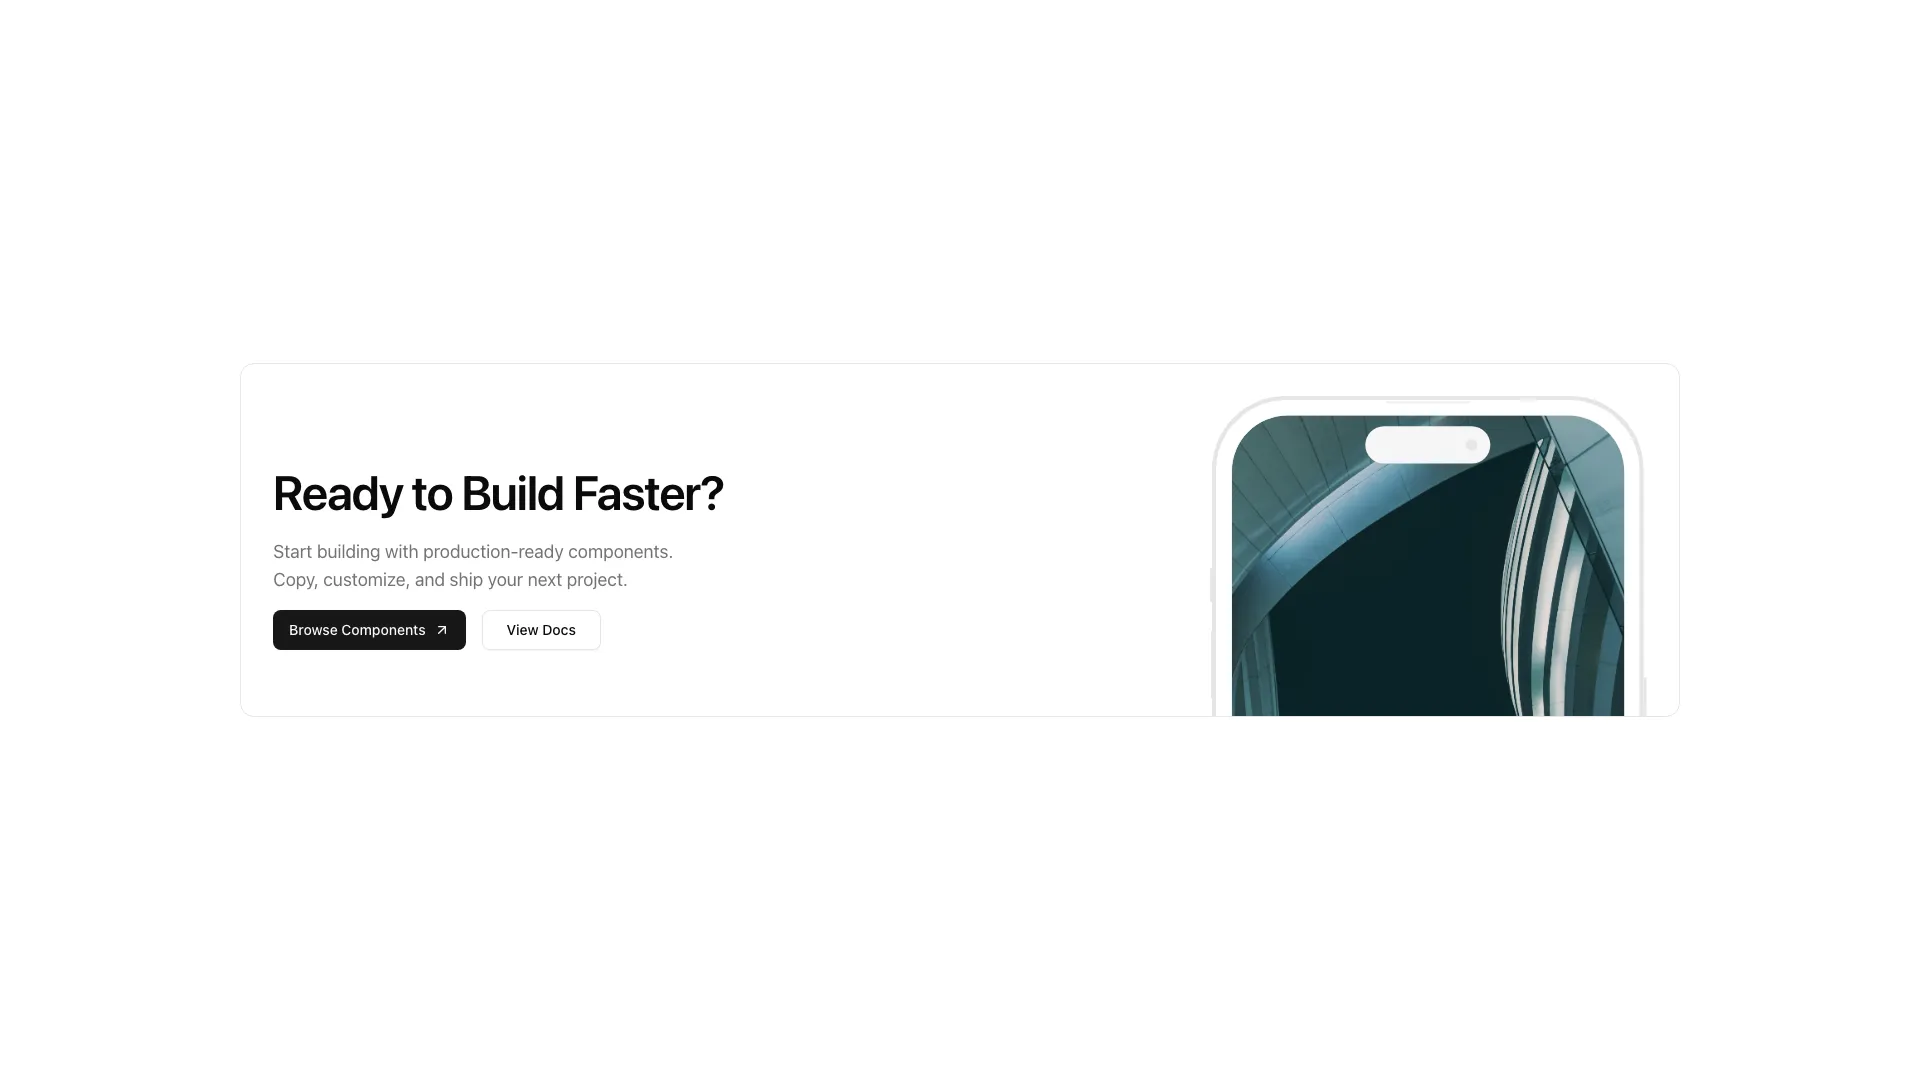
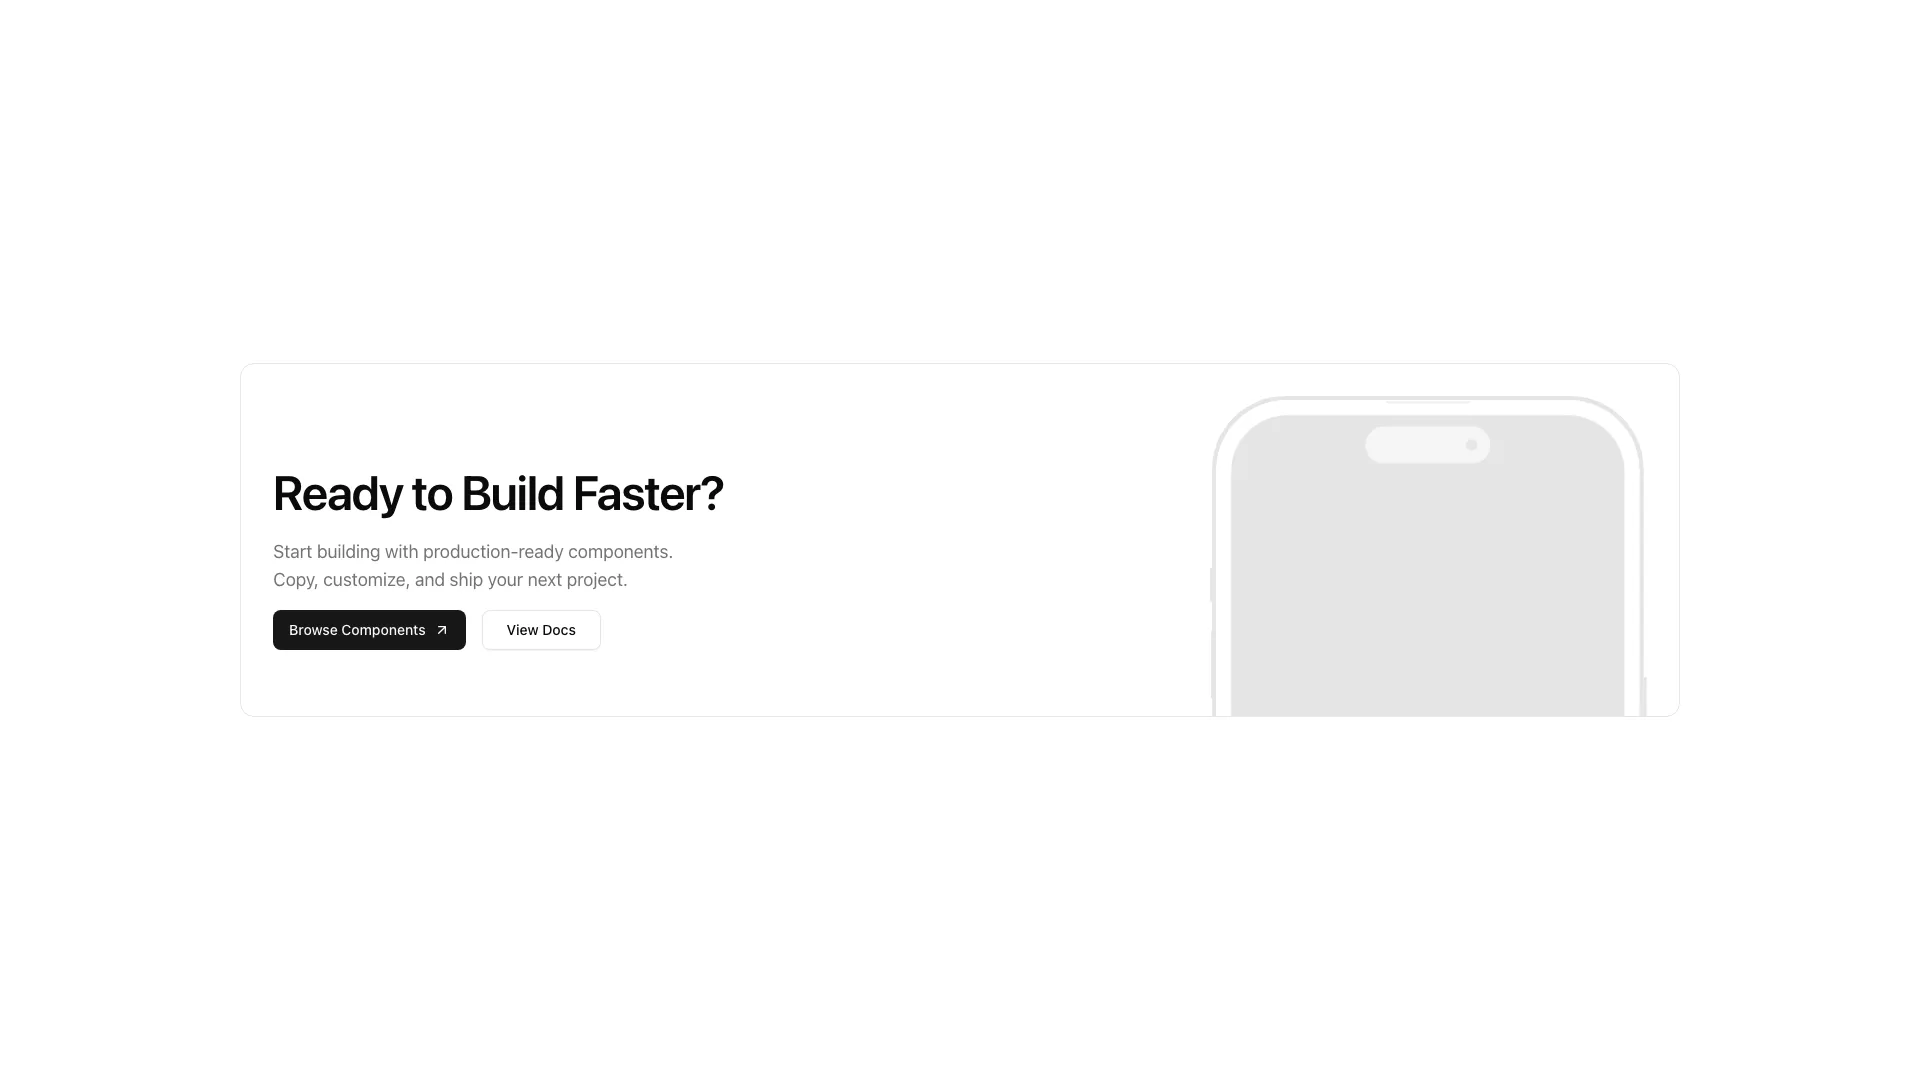
fix: display img in componants

Changed region(s): [[0.625, 0.3667, 0.8438, 0.6722]]

diff --git a/src/registry/blocks/feature-05/feature.tsx b/src/registry/blocks/feature-05/feature.tsx
@@ -38,25 +38,21 @@ const Feature05 = ({
       title: "Copy & Paste Ready",
       description: "Every component is ready to use. Just copy the code and paste it into your project.",
       icon: Copy,
-      image: "https://images.pexels.com/photos/17791448/pexels-photo-17791448.jpeg",
     },
     {
       title: "Fully Customizable",
       description: "Built with Tailwind CSS, every component can be easily modified to match your brand.",
       icon: SquareDashedMousePointer,
-      image: "https://images.pexels.com/photos/17791448/pexels-photo-17791448.jpeg",
     },
     {
       title: "TypeScript First",
       description: "All components are fully typed with TypeScript for better developer experience.",
       icon: TypeOutline,
-      image: "https://images.pexels.com/photos/17791448/pexels-photo-17791448.jpeg",
     },
     {
       title: "Accessible by Default",
       description: "Built on Radix UI primitives, all components follow WAI-ARIA guidelines.",
       icon: Info,
-      image: "https://images.pexels.com/photos/17791448/pexels-photo-17791448.jpeg",
     },
   ],
   className,
@@ -102,27 +98,27 @@ const Feature05 = ({
                     <p className={feature.icon ? "pl-8" : ""}>
                       {feature.description}
                     </p>
+                    <div className="mt-4 aspect-video overflow-hidden rounded-lg bg-accent lg:hidden">
                     {feature.image && (
-                      <div className="mt-4 aspect-video overflow-hidden rounded-lg bg-muted lg:hidden">
                         <img
                           src={feature.image}
                           alt={feature.title}
                           className="size-full object-cover"
                         />
-                      </div>
                     )}
+                    </div>
                   </AccordionContent>
                 </AccordionItem>
               ))}
             </Accordion>
           </div>
           <div className="relative hidden lg:block">
-          <div className="sticky top-24 aspect-square overflow-hidden rounded-lg h-full border">
-              <img
+          <div className="sticky top-24 aspect-square overflow-hidden rounded-lg h-full border bg-accent">
+            {activeImage && <img
                 src={activeImage}
                 alt="Feature illustration"
                 className="size-full object-cover "
-              />
+              />}
             </div>
           </div>
         </div>

diff --git a/src/registry/blocks/hero-03/hero.tsx b/src/registry/blocks/hero-03/hero.tsx
@@ -15,7 +15,9 @@ interface Hero03Props {
   };
   ratingText?: string;
   stats?: { value: string; label: string }[];
+  image?: string;
   className?: string;
+
 }
 
 const Hero03 = ({
@@ -31,8 +33,9 @@ const Hero03 = ({
     { value: "50+", label: "Blocks" },
     { value: "100%", label: "Free" },
     { value: "Open", label: "Source" },
-  ],
-  className,
+    ],
+  image,
+    className,
 }: Hero03Props) => {
   return (
     <section
@@ -89,7 +92,7 @@ const Hero03 = ({
             <Separator orientation="vertical" className="h-4" />
             <span className="text-sm text-muted-foreground">{ratingText}</span>
           </div>
-          <Card className="mt-12 w-full shadow-none">
+          <Card className="mt-12 w-full shadow-none max-w-2xl">
             <div className="flex divide-x">
               {stats.map((stat) => (
                 <div
@@ -107,7 +110,10 @@ const Hero03 = ({
             </div>
           </Card>
         </div>
-        <div className="w-full aspect-video lg:aspect-auto lg:h-screen bg-accent" />
+        <div className="w-full aspect-video lg:aspect-auto lg:h-screen bg-accent">
+             {image && <img src={image} alt={heading} width={1000} height={1000} className="w-full h-full object-cover" />}
+        </div>
+      
       </div>
     </section>
   );

diff --git a/src/registry/blocks/feature-02/feature.tsx b/src/registry/blocks/feature-02/feature.tsx
@@ -10,6 +10,7 @@ interface Feature {
 }
 
 interface Feature02Props {
+  image?: string;
   heading?: string;
   features?: Feature[];
   className?: string;
@@ -17,6 +18,7 @@ interface Feature02Props {
 
 const Feature02 = ({
   heading = "Everything You Need to Build Faster",
+  image,
   features = [
     {
       icon: <Blocks className="size-5" />,
@@ -40,10 +42,11 @@ const Feature02 = ({
   className,
 }: Feature02Props) => (
   <section className={cn("container mx-auto px-6 py-12 md:py-24", className)}>
-      <div className="relative flex h-64 md:h-80 items-center justify-center rounded-xl bg-accent">
-        <h2 className="relative text-center text-4xl md:text-5xl font-semibold leading-tight tracking-tight px-4">
+      <div className="relative flex h-64 md:h-80 items-center justify-center rounded-xl bg-accent overflow-hidden">
+        <h2 className="relative text-center text-4xl md:text-5xl font-semibold leading-tight tracking-tight px-4 z-2">
           {heading}
         </h2>
+        {image && <img src={image} alt={heading} className="absolute inset-0 w-full h-full object-cover  z-1" />}
       </div>
       <div className="mt-6 grid gap-6 md:grid-cols-3">
         {features.map((feature, i) => (

diff --git a/src/registry/blocks/hero-02/hero.tsx b/src/registry/blocks/hero-02/hero.tsx
@@ -58,6 +58,7 @@ interface Hero02Props {
     primary?: { text: string; url: string; icon?: React.ReactNode };
     secondary?: { text: string; url: string; icon?: React.ReactNode };
   };
+  image?: string;
   className?: string;
 }
 
@@ -69,6 +70,7 @@ const Hero02 = ({
     primary: { text: "Browse Components", url: "#", icon: <ArrowUpRight className="size-4" /> },
     secondary: { text: "View Docs", url: "#" },
   },
+  image,
   className,
 }: Hero02Props) => {
   return (
@@ -115,7 +117,9 @@ const Hero02 = ({
             </Button>
           )}
         </div>
-        <div className="mt-20  mx-auto w-full max-w-5xl lg:max-w-7xl aspect-video bg-accent rounded-md" />
+        <div className="mt-20  mx-auto w-full max-w-5xl lg:max-w-7xl aspect-video bg-accent rounded-md">
+          {image && <img src={image} alt={heading} width={1000} height={1000} className="w-full h-full object-cover rounded-md" />}
+        </div>
       </div>
     </section>
   );

diff --git a/src/registry/blocks/feature-01/feature.tsx b/src/registry/blocks/feature-01/feature.tsx
@@ -4,6 +4,7 @@ import { Card } from "@/components/ui/card";
 import { Button } from "@/components/ui/button";
 
 interface FeatureItem {
+  image?: string;
   title: string;
   description: string;
   link?: { text: string; url: string };
@@ -50,7 +51,9 @@ const Feature01 = ({
         <div className="mt-8 grid gap-8 md:grid-cols-2 lg:grid-cols-3">
           {features.map((feature, index) => (
             <Card key={index} className="flex flex-col p-4 shadow-none gap-4">
-              <div className="aspect-video rounded-lg bg-accent" />
+              <div className="aspect-video rounded-lg bg-accent" >
+                {feature.image && <img src={feature.image} alt={feature.title} className="aspect-video object-cover rounded-lg" />}
+                </div>
               <h3 className="text-xl font-medium">{feature.title}</h3>
               <p className="flex-1 text-sm text-muted-foreground">
                 {feature.description}

diff --git a/src/registry/blocks/hero-01/hero.tsx b/src/registry/blocks/hero-01/hero.tsx
@@ -11,6 +11,7 @@ interface Hero01Props {
     primary?: { text: string; url: string; icon?: React.ReactNode };
     secondary?: { text: string; url: string; icon?: React.ReactNode };
   };
+  image?: string;
   className?: string;
 }
 
@@ -22,6 +23,7 @@ const Hero01 = ({
     primary: { text: "Browse Components", url: "#" ,icon: <ArrowUpRight className="size-4" /> },
     secondary: { text: "View Docs", url: "#" },
   },
+  image,
   className,
 }: Hero01Props) => {
   return (
@@ -70,7 +72,9 @@ const Hero01 = ({
             )}
           </div>
         </div>
-        <div className="w-full aspect-video lg:aspect-square bg-accent rounded-md" />
+        <div className="w-full aspect-video lg:aspect-square bg-accent rounded-md">
+          {image && <img src={image} alt={heading} width={1000} height={1000} className="w-full h-full object-cover rounded-md" />}
+        </div>
       </div>
     </section>
   );

diff --git a/src/registry/blocks/feature-03/feature.tsx b/src/registry/blocks/feature-03/feature.tsx
@@ -6,6 +6,7 @@ interface Feature {
   badge: string;
   title: string;
   description: string;
+  image?: string;
   button?: {
     text: string;
     url: string;
@@ -77,7 +78,9 @@ const Feature03 = ({
                 index % 2 !== 0 && "md:flex-row-reverse"
               )}
             >
-              <div className="w-full md:w-1/2 aspect-video border border-border bg-accent rounded-md" />
+              <div className="w-full md:w-1/2 aspect-video border border-border bg-accent rounded-md overflow-hidden" >
+                {feature.image && <img src={feature.image} alt={feature.title} className="w-full h-full object-cover " />}
+                </div>
               <div className="w-full md:w-1/2 space-y-6">
                 <p className="text-sm font-semibold uppercase text-muted-foreground">
                   {feature.badge}

diff --git a/src/registry/blocks/navbar-01/navbar.tsx b/src/registry/blocks/navbar-01/navbar.tsx
@@ -253,7 +253,7 @@ const renderMenuItem = (item: MenuItemWithType) => {
               <NavigationMenuLink asChild>
                 <Link
                   href={item.featured.url}
-                  className="flex h-full w-full select-none flex-col justify-end rounded-md bg-gradient-to-b from-muted/50 to-muted p-4 no-underline outline-none transition-all duration-200 hover:shadow-md focus:shadow-md md:p-6"
+                  className="flex h-full w-full select-none flex-col justify-end rounded-md bg-linear-to-b from-muted/50 to-muted p-4 no-underline outline-none transition-all duration-200 hover:shadow-md focus:shadow-md md:p-6"
                 >
                   <Sparkles className="size-6" />
                   <div className="mb-2 mt-4 text-lg font-medium">

diff --git a/src/registry/blocks/cta-02/cta.tsx b/src/registry/blocks/cta-02/cta.tsx
@@ -22,7 +22,7 @@ const Cta02 = ({
     primary: { text: "Browse Components", url: "#", icon: <ArrowUpRight className="size-4" /> },
     secondary: { text: "View Docs", url: "#" },
   },
-  image = "https://images.pexels.com/photos/5659346/pexels-photo-5659346.jpeg",
+  image,
   className,
 }: Cta02Props) => (
   <section className={cn("container mx-auto py-12 md:py-24", className)}>
@@ -49,7 +49,7 @@ const Cta02 = ({
           </div>
         </div>
         <div className="hidden max-h-80 self-end overflow-hidden md:block">
-          <Iphone src={image} />
+          <Iphone src={image??undefined} />
         </div>
       </Card>
     </div>

diff --git a/src/lib/registry.ts b/src/lib/registry.ts
@@ -54,7 +54,7 @@ function transformToBlock(item: RegistryJsonItem): RegistryBlock {
 }
 
 // Transform all registry items to blocks
-const blocks: RegistryBlock[] = registryData.items.map(transformToBlock);
+const blocks: RegistryBlock[] = registryData.items.filter((item) => !item.categories?.includes("background")).map(transformToBlock);
 
 /**
  * Get all blocks
